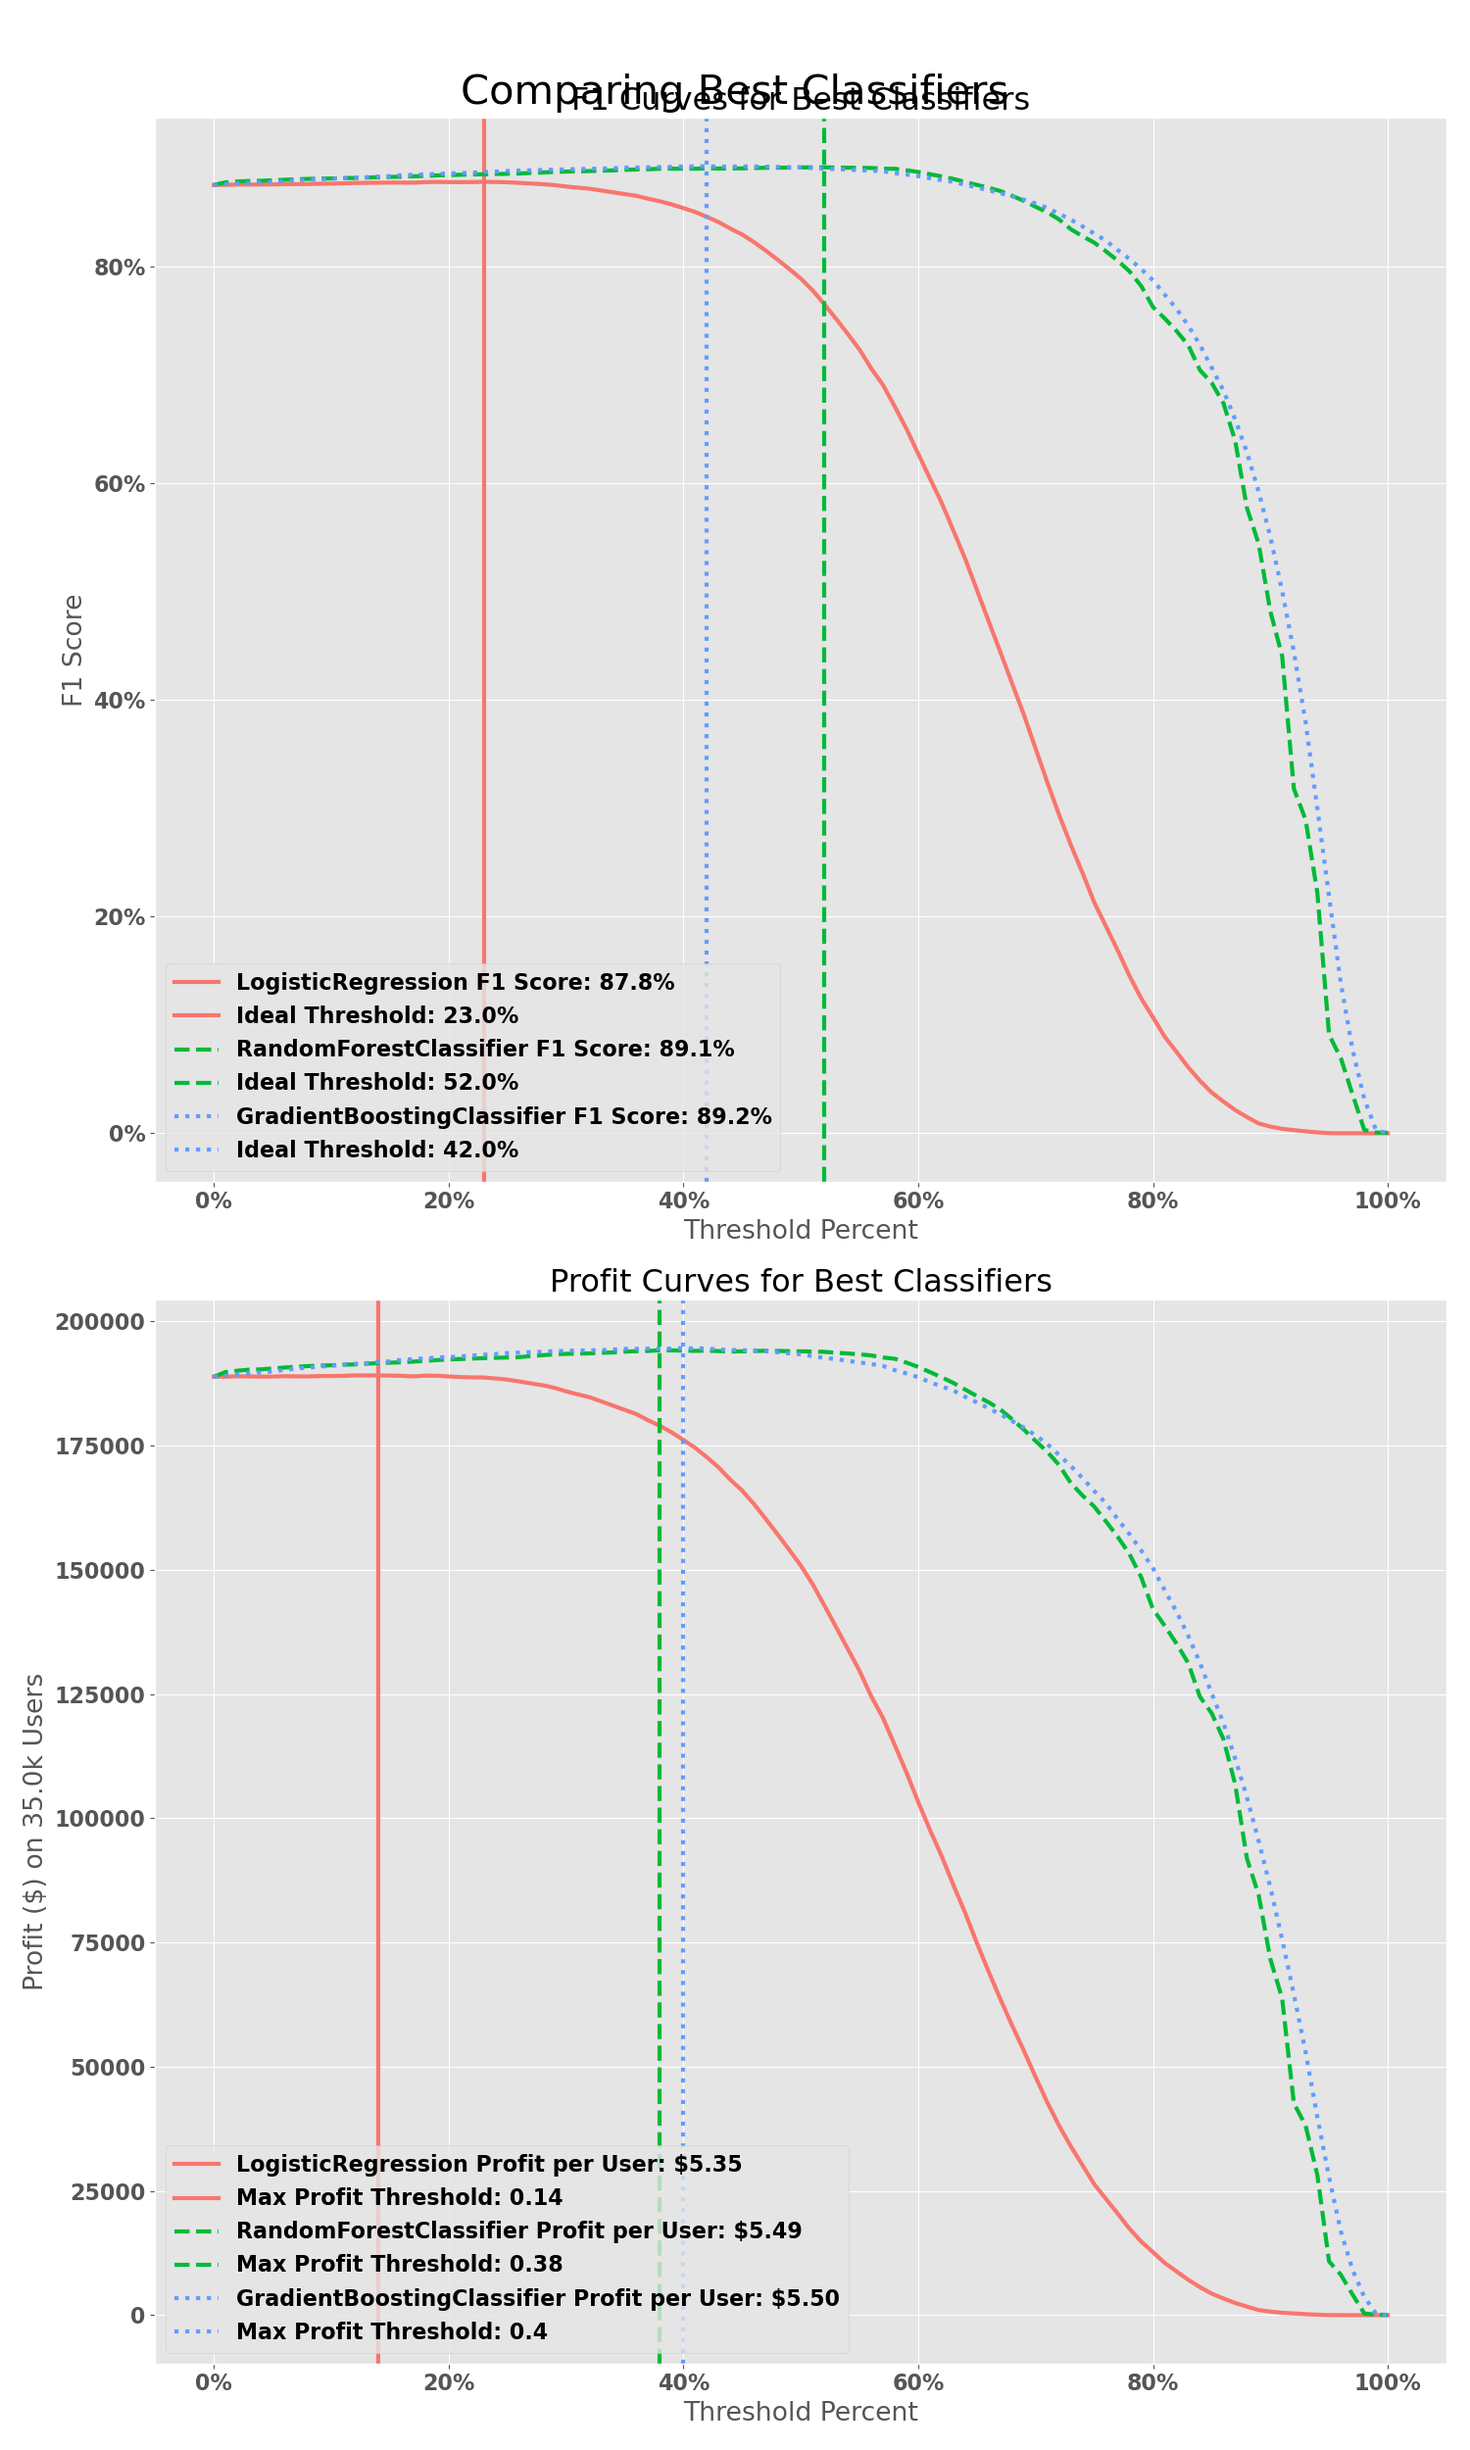
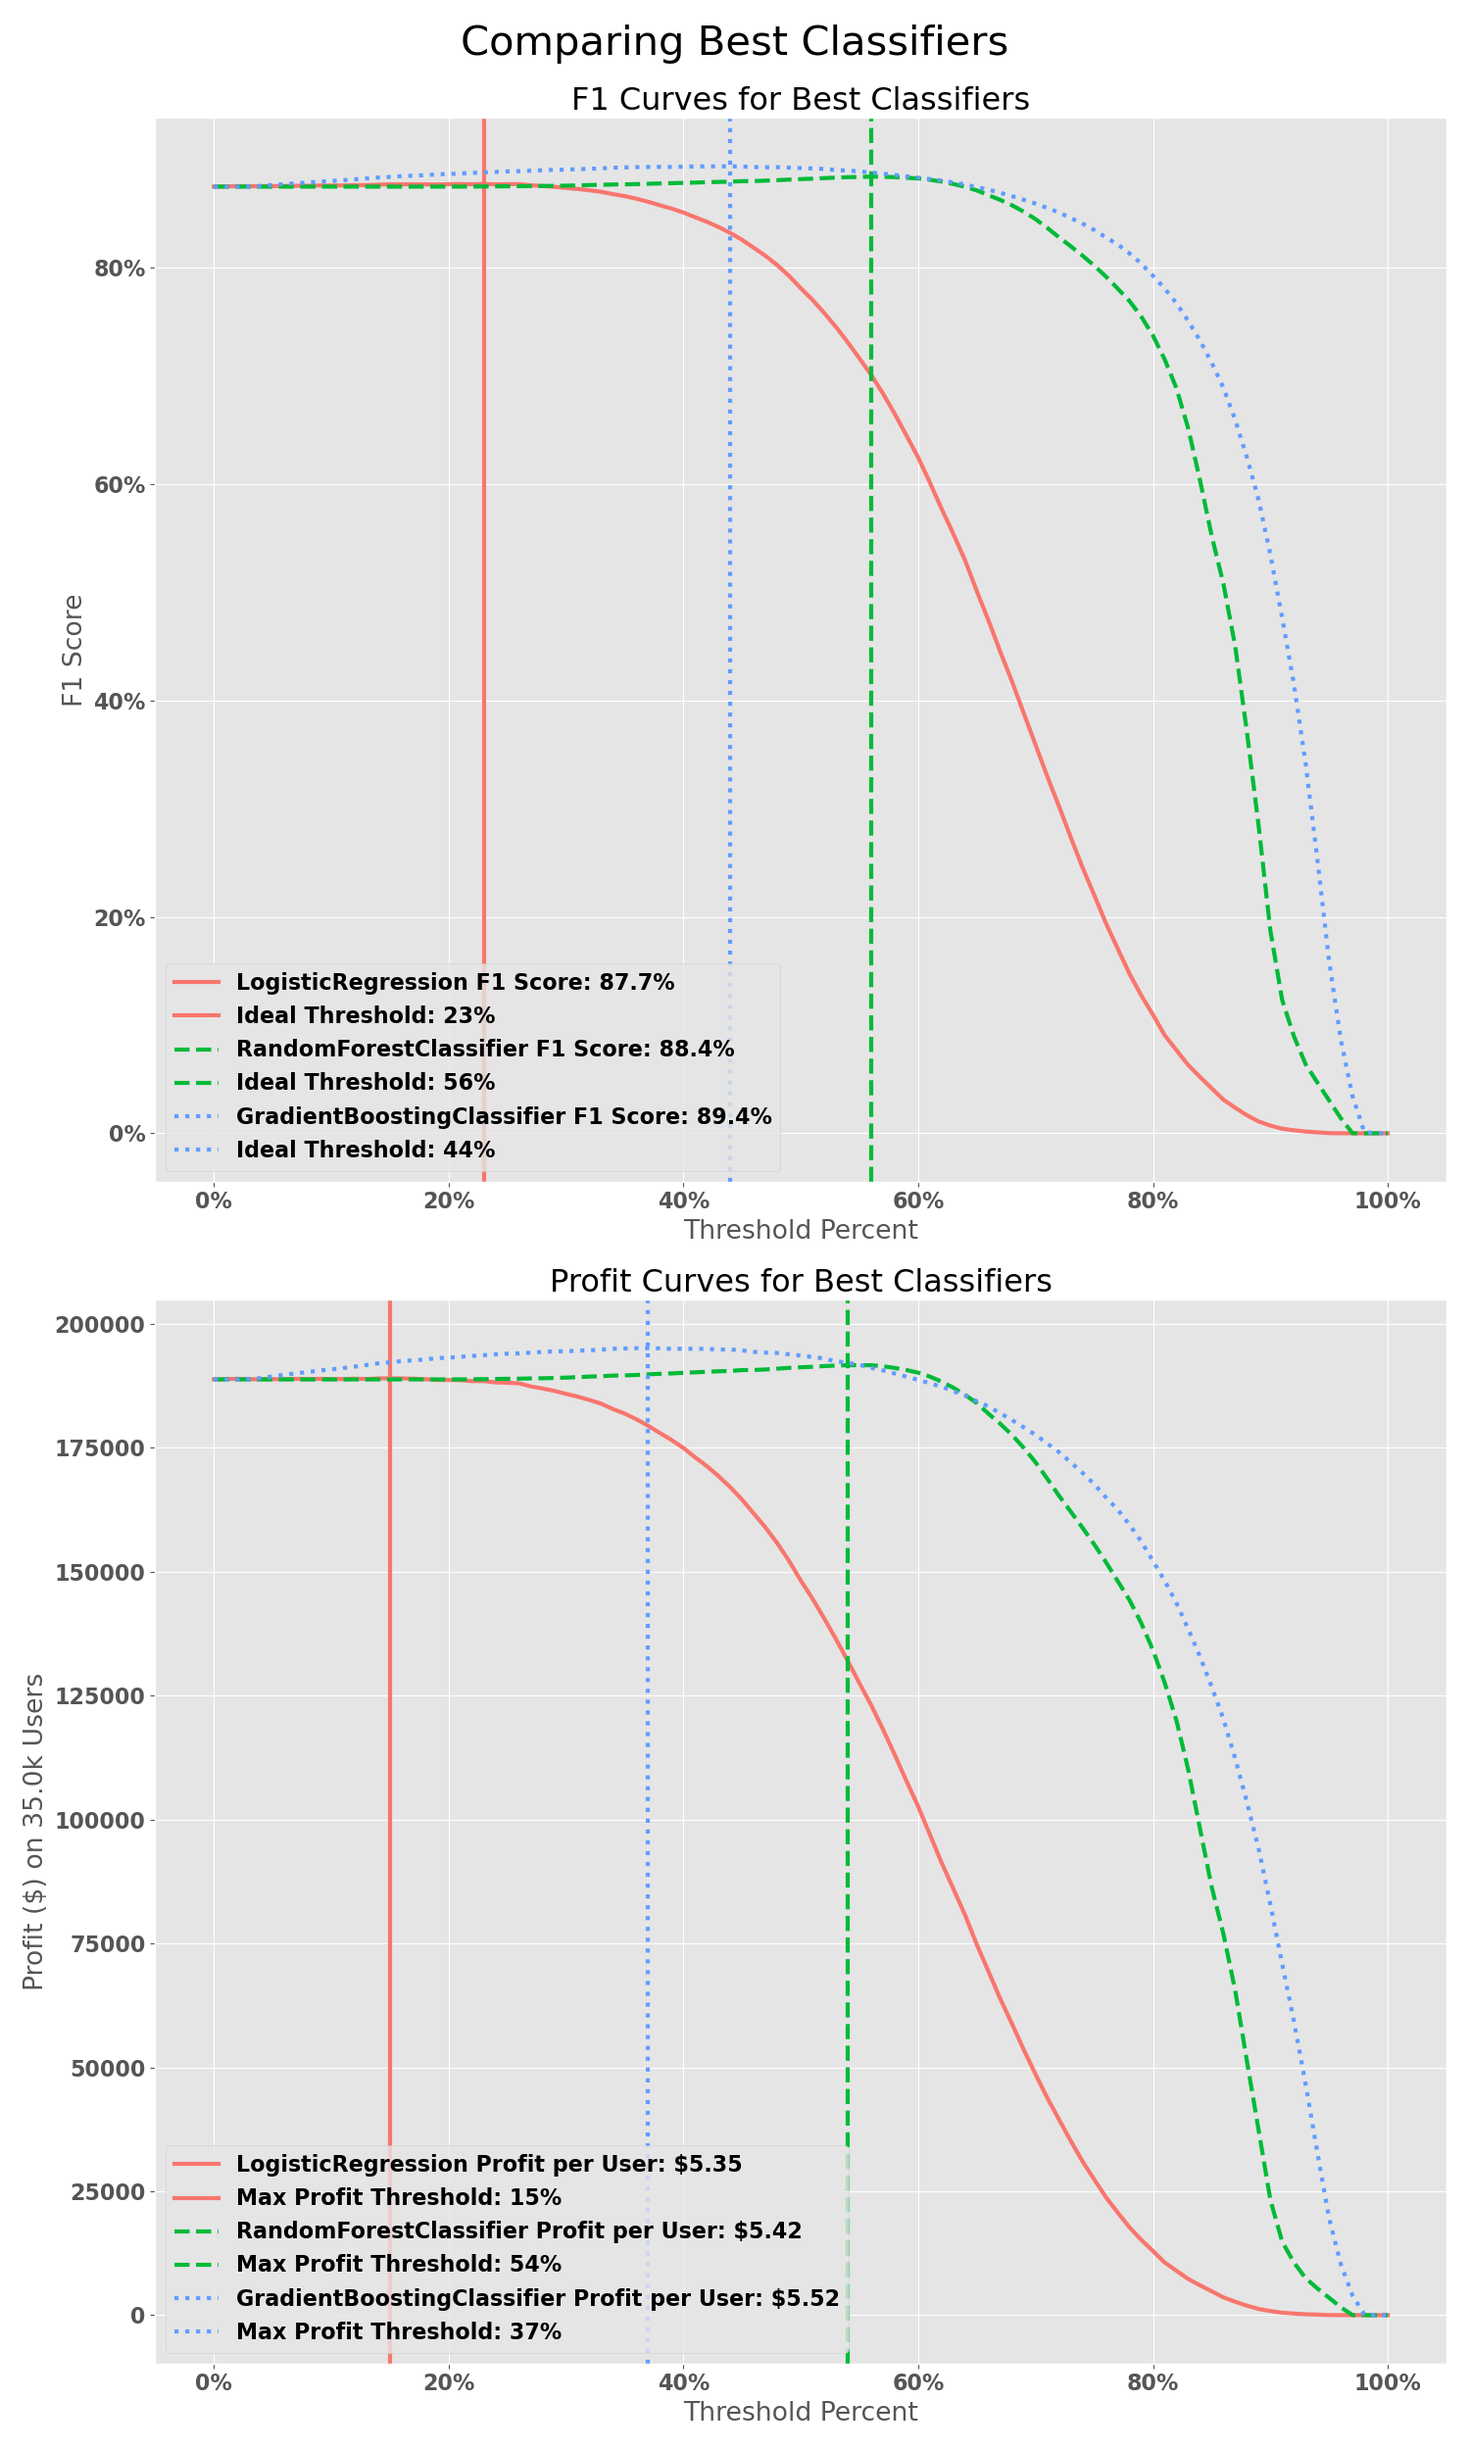
Added customer service interactions and driver tipping features.

diff --git a/src/best_model.py b/src/best_model.py
@@ -16,13 +16,13 @@ from collections import OrderedDict
 if __name__ == '__main__':
 
     bucket_name = 'food-delivery-churn'
-    filename = 'original_churn'
+    filename = 'boolean_churn'
     is_feature_selection = False
     feature_list = []
 
     X_train, X_test, y_train, y_test = load_X_y(bucket_name, filename, is_feature_selection, feature_list)
 
-    churn_model = Churn_Model(GradientBoostingClassifier(), 30, (X_train, X_test, y_train, y_test))
+    churn_model = Churn_Model(GradientBoostingClassifier(), (X_train, X_test, y_train, y_test))
     churn_model.convert_cat_to_int()
     X_train, X_test, y_train, y_test = churn_model.X_train, churn_model.X_test, churn_model.y_train, churn_model.y_test
     
@@ -48,6 +48,5 @@ if __name__ == '__main__':
                                     ,features=[i for i in range(0,len(X_train.columns.tolist()))]
                                     ,X=X_train
                                     ,n_cols=4
-                                    ,feature_names=X_train.columns.tolist()
-                                    ,grid_resolution=10)
+                                    ,feature_names=X_train.columns.tolist())
     plt.show()

diff --git a/src/split_store_data.py b/src/split_store_data.py
@@ -72,11 +72,15 @@ if __name__ == '__main__':
                  ,"Norvos"]
 
     params = {}
-    churn_query_id = 714507
     api_key = os.environ['REDASH_API_KEY']
     query_url = os.environ['REDASH_LINK']
 
-    churn_data = Query_results(query_url, churn_query_id, api_key, params)
+    original_churn_query_id = 714507
+    original_churn_data = Query_results(query_url, original_churn_query_id, api_key, params)
+
+    boolean_churn_query_id = 730923
+    boolean_churn_data = Query_results(query_url, boolean_churn_query_id, api_key, params)
+
 
     clean_dict = {'datetime_cols': ['signup_time_utc', 'last_order_time_utc']
                 ,'target_column': 'last_order_time_utc'
@@ -86,5 +90,5 @@ if __name__ == '__main__':
                 }
 
     print(f"Cleaning and storing data...")
-    clean_store_data(churn_data, clean_dict, 'food-delivery-churn', 'original_churn')
-
+    clean_store_data(original_churn_data, clean_dict, 'food-delivery-churn', 'original_churn')
+    clean_store_data(boolean_churn_data, clean_dict, 'food-delivery-churn', 'boolean_churn')

diff --git a/src/train_test.py b/src/train_test.py
@@ -306,7 +306,7 @@ if __name__ == '__main__':
         
         model_plot = Churn_Plot(classifier, X_test, y_test)
         model_plot.plot_f1_curve(axs[0], kwargs)             
-        model_plot.plot_profit_curve(axs[1], kwargs)
+        model_plot.plot_profit_curve(axs[1], kwargs, tp_cost=2.99)
     
     axs[0].legend(loc='lower left')
     axs[0].set_title(f"F1 Curves for Best Classifiers")                                                                    
@@ -320,9 +320,6 @@ if __name__ == '__main__':
     axs[1].set_xlabel(f"Threshold Percent")
     axs[1].set_ylabel(f"Profit ($) on {round(len(y_test)/1000,0)}k Users")
     axs[1].xaxis.set_major_formatter(PercentFormatter(xmax=1.0))
-    # threshold_labels = ['100%', '80%', '60%', '40%', '20%', '0%']
-    # axs[1].set_xticks(np.arange(0, 101, step=20))
-    # axs[1].set_xticklabels(threshold_labels)
     
     plt.suptitle("Comparing Best Classifiers", y=0.99, fontsize=30)
     plt.tight_layout()

diff --git a/README.md b/README.md
@@ -5,8 +5,8 @@ Food Delivery Company X saw substantial user growth as lockdowns started and res
 
 Using Supervised Machine Learning models, I will attempt to predict the probability a user will churn based of their signup data, first order data, and first 30 days on the platform. 
 
-$$\Large \text{Churned User (+ Class)} = \text{A user who's last order was > 30 days ago}$$
-$$\Large \text{Active User (- Class)} = \text{A user who's last order was <= 30 days ago}$$
+$$\large \text{Churned User (+ Class)} = \text{A user who's last order was > 30 days ago}$$
+$$\large \text{Active User (- Class)} = \text{A user who's last order was <= 30 days ago}$$
 
 ---
 
@@ -83,6 +83,8 @@ As you can see, there is very little difference in the best performing Gradient 
 
 In order to determine the best classifier to use along with the optimal hyperparameters, I used a combination of `GridSearchCV` on the Logistic Regression classifier and `RandomizedSearchCV` on the Random Forest and Gradient Boosting classifers. 
 
+![F1 Score and Profit Curve](images/original_roc_curves.png)
+
 | Feature                        | Importance % |
 |--------------------------------|--------------|
 | Days Since Signup | 19.8% |
@@ -112,7 +114,7 @@ In order to determine the best classifier to use along with the optimal hyperpar
 
 ## Model and Threshold Selection
 
-![F1 Score and Profit Curve](images/profit_and_f1_curves.png)
+![F1 Score and Profit Curve](images/original_profit_and_f1_curves.png)
 
 ## Conclusions
 
